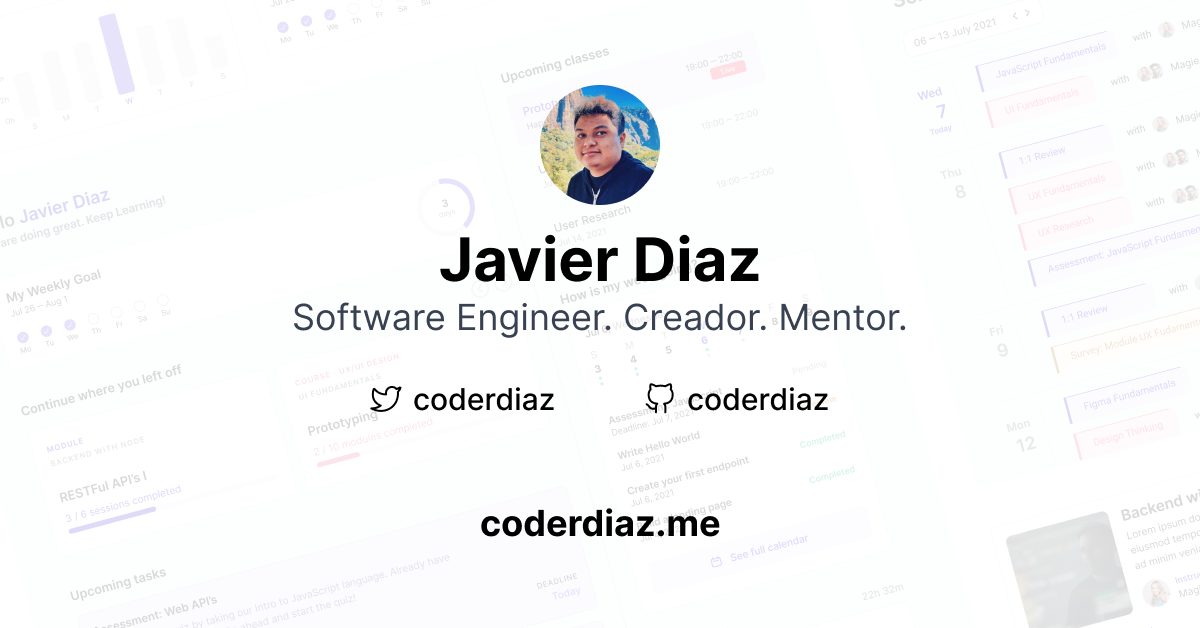
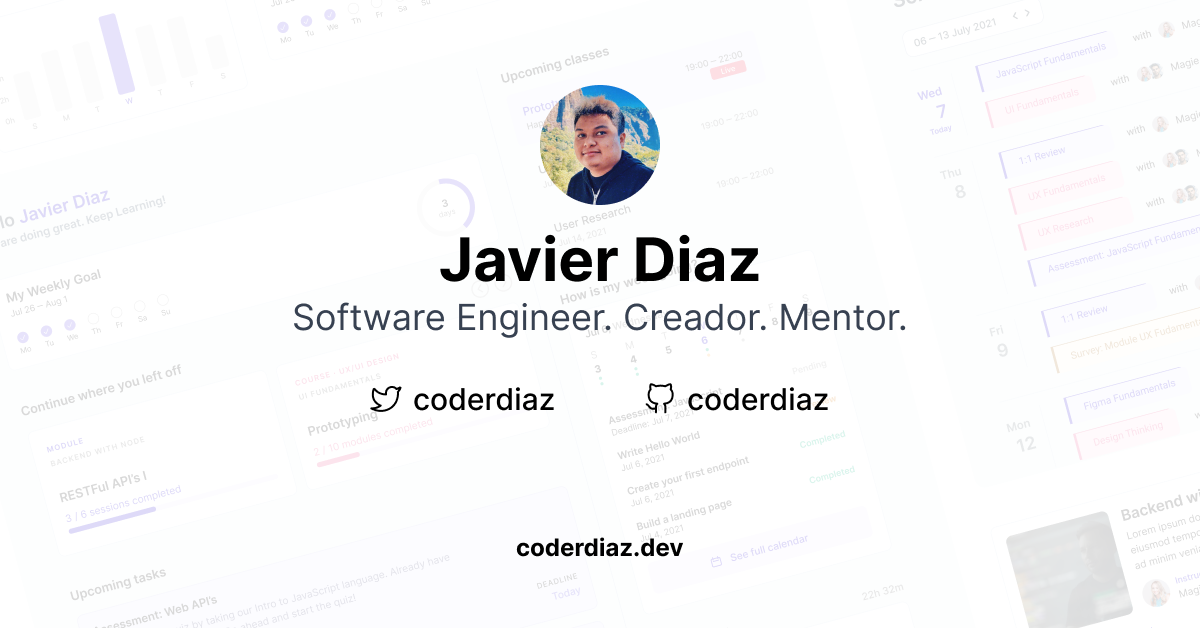
chore: updated domain

Changed region(s): [[0.4008, 0.8169, 0.6167, 0.9076]]

diff --git a/README.md b/README.md
@@ -1,1 +1,1 @@
-[coderdiaz.me](https://coderdiaz.me)
+[coderdiaz.dev](https://coderdiaz.dev)
